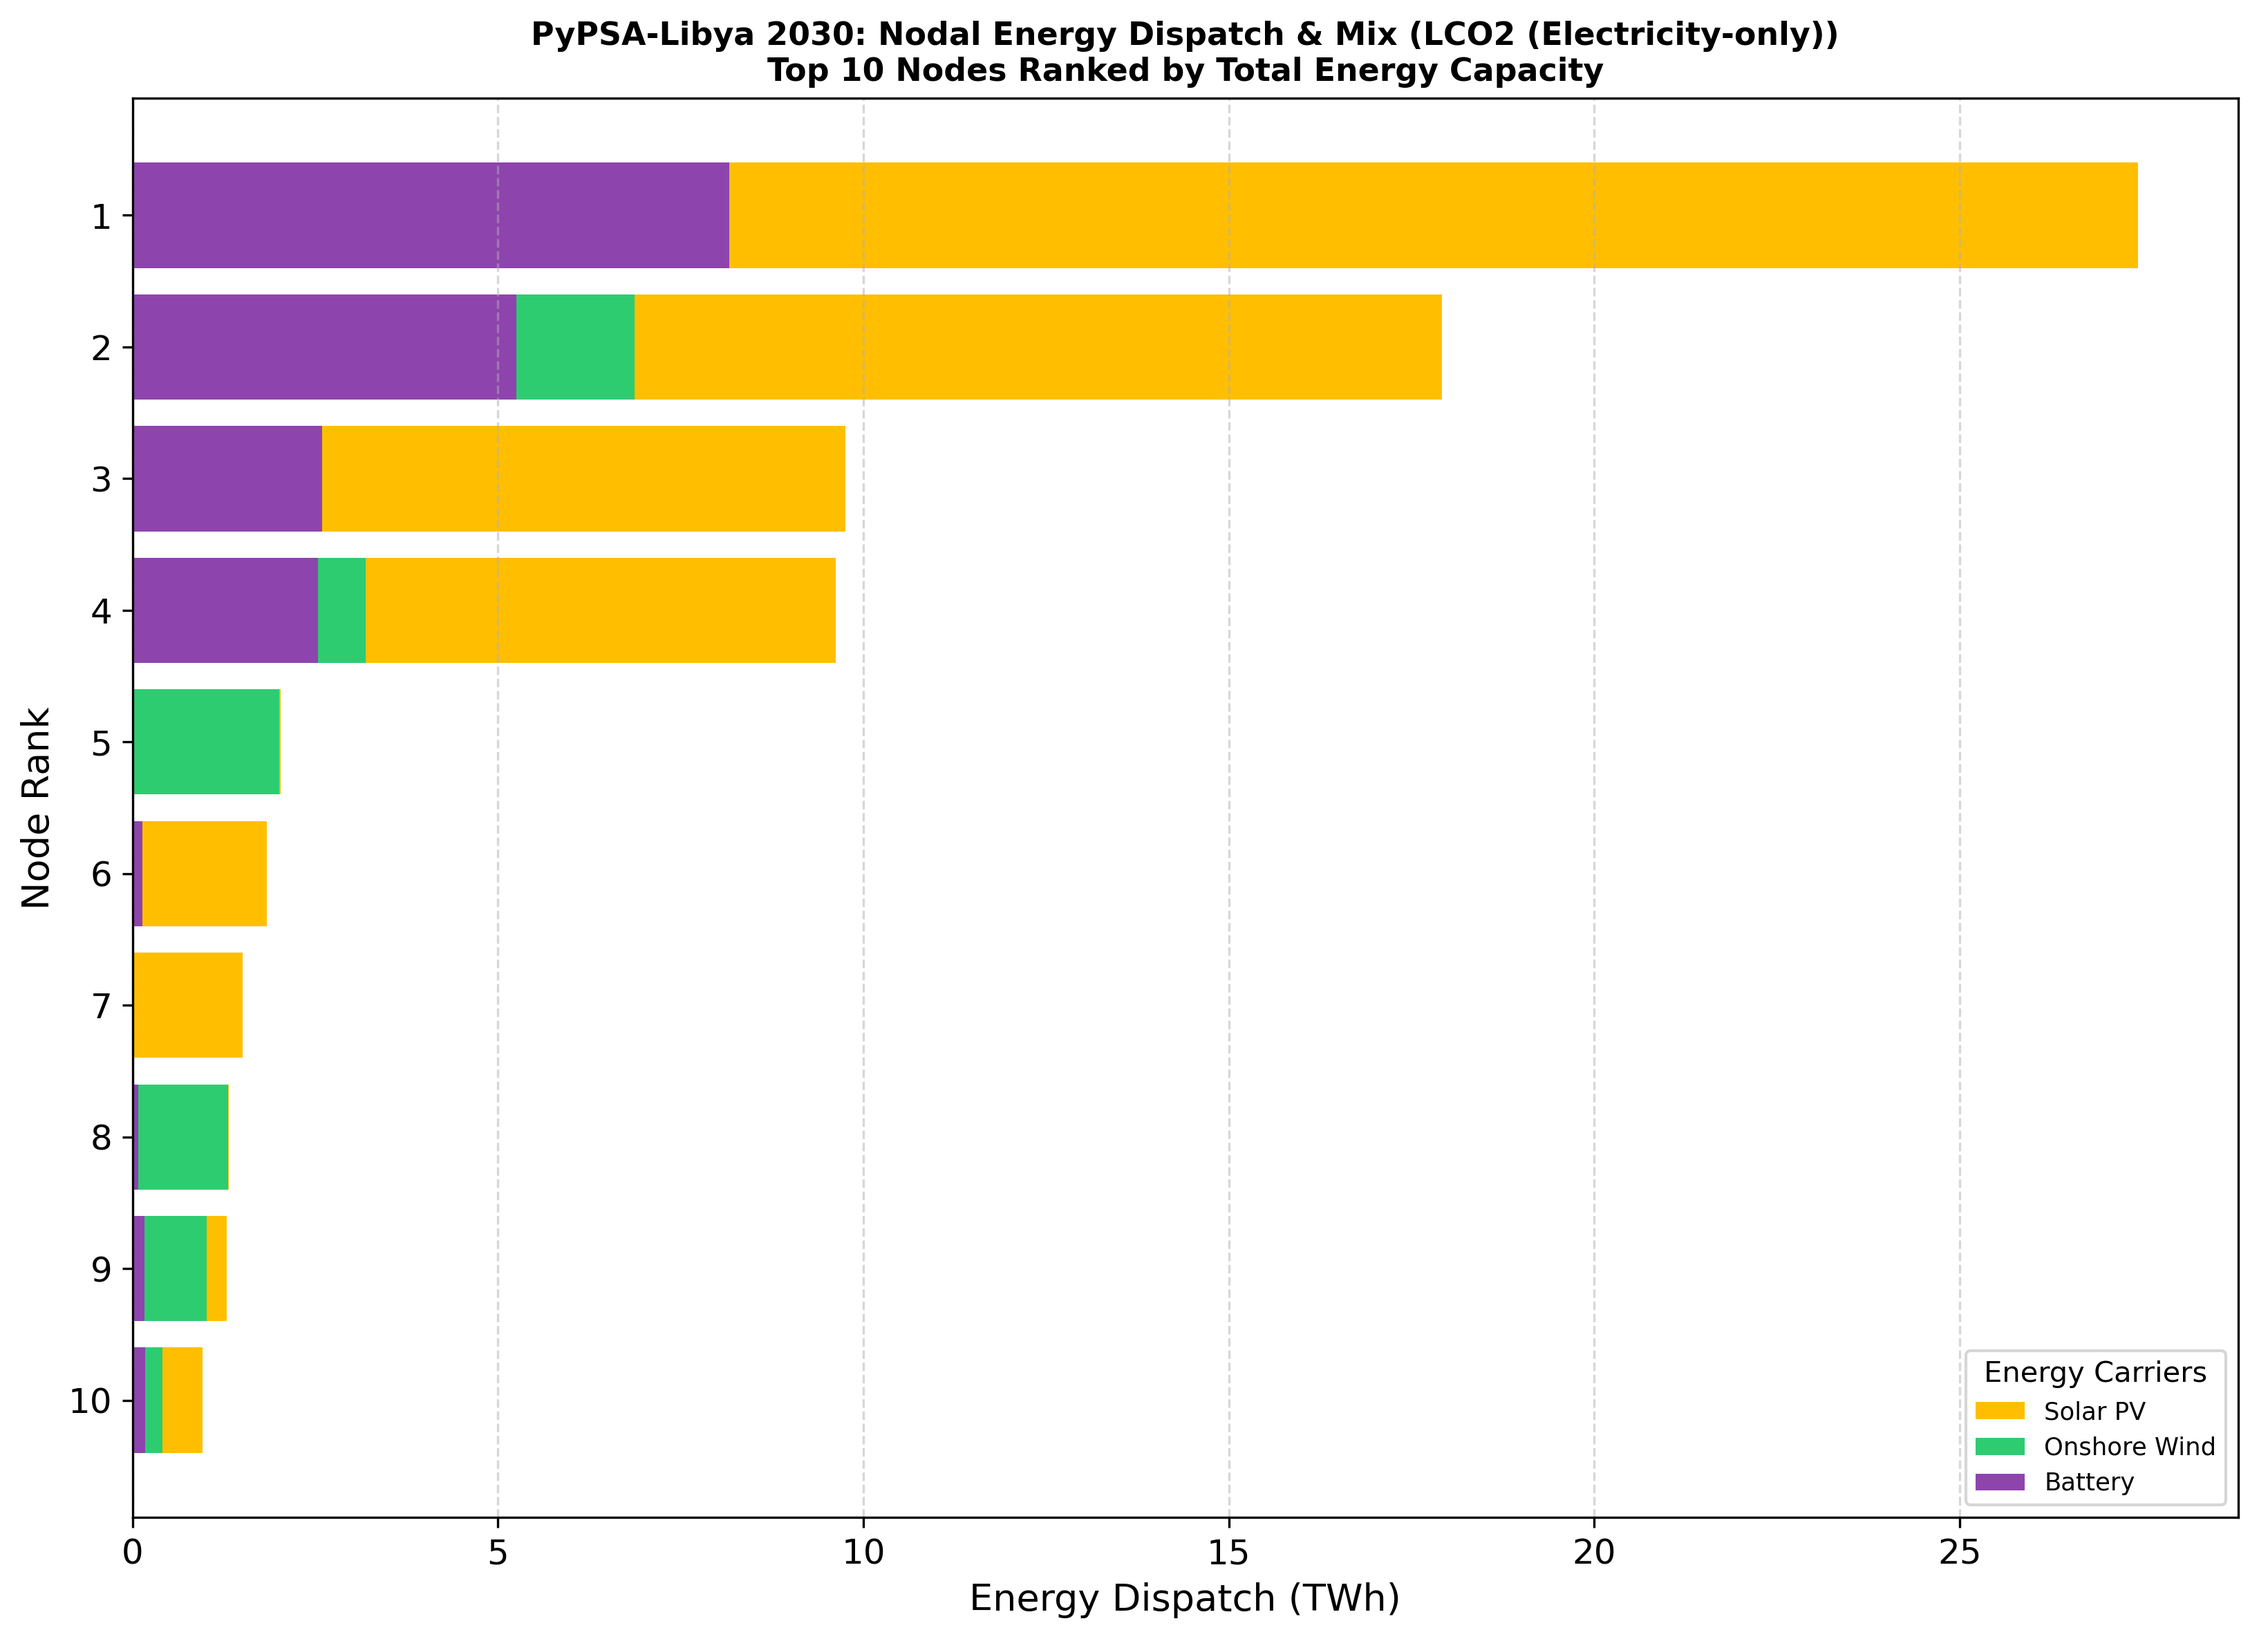
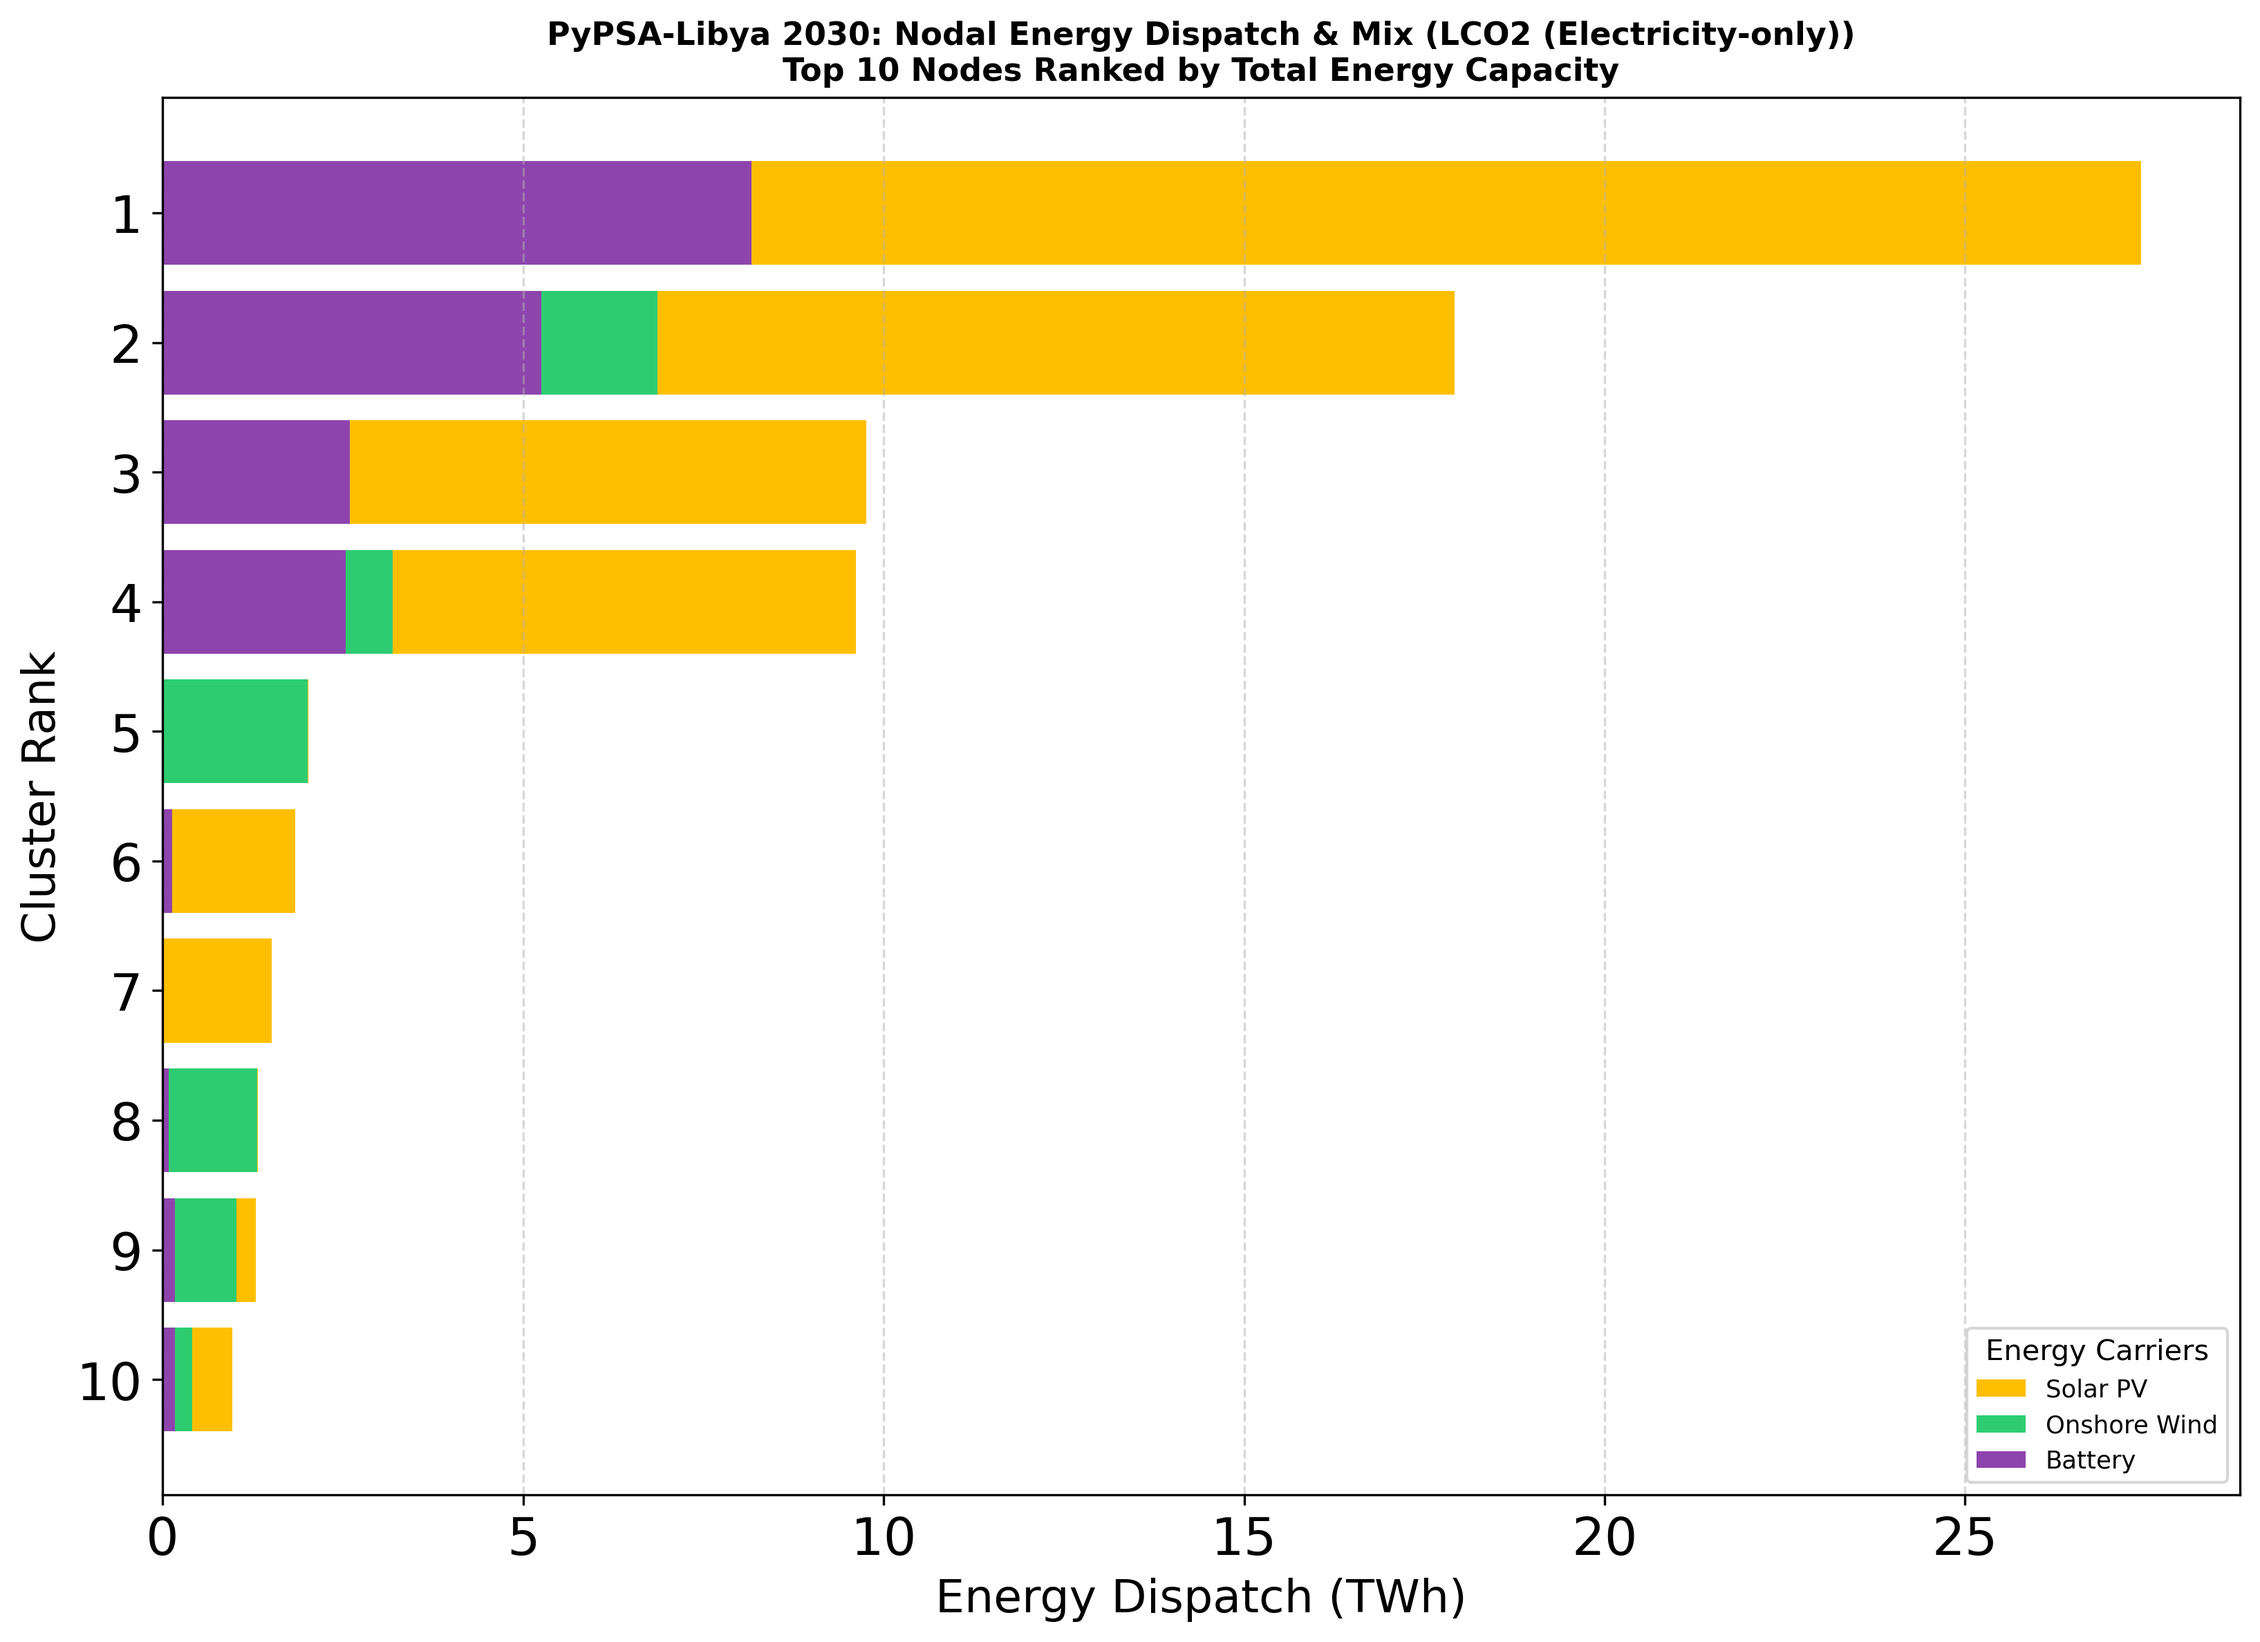
Add files via upload

diff --git a/viz_outputs/Validate_Energy_Conservation_All_Carriers/validate_all_carriers_energy_conservation.py b/viz_outputs/Validate_Energy_Conservation_All_Carriers/validate_all_carriers_energy_conservation.py
@@ -62,18 +62,34 @@ def save_paper_pdf(fig, ax, filename):
     ax.set_title(original_title)    # Restore title for the PNG/display version
     print(f" Saved Paper PDF (Optimized): {clean_name}")
 
-### --- ADJUSTABLE MAP & BAR CHART SETTINGS FOR READABILITY ---
-PIE_SCALE_FACTOR = 1.5                # Change this to 1.0 for original size, 1.5 to increase by 50%, etc.
+# ============================================================================
+# ADJUSTABLE CONFIGURATION: MAP & BAR CHART FORMATTING FOR READABILITY
+# ============================================================================
 
-MAP_NODE_LABEL_SIZE = 11              # Change this to adjust map node label font size (e.g., 9, 11, 13)
-MAP_NODE_LABEL_WEIGHT = "bold"        # Change this to "bold" or "normal"
+### --- 1. General Scaling & Filtering Thresholds ---
+PIE_SCALE_FACTOR = 1.5                # Scales pie chart sizes globally 
+                                      # (1.0 = baseline size, 1.5 = +50% larger, etc.)
 
-MAP_LABEL_OFFSET_X = -0.35            # Horizontal offset for map labels (electricity-only mode)
-MAP_LABEL_OFFSET_Y = -0.15             # Vertical offset for map labels (electricity-only mode)
-MAP_PIXEL_OFFSET_Y = 7                # Vertical pixel offset above nodes (sector-coupling mode)
+CARRIER_PERCENTAGE = 0.5              # Minimum global energy share (%) required for a 
+                                      # carrier to appear in map pie charts and the legend
 
-BAR_TICK_FONT_SIZE = 12               # Change this to adjust bar plot tick size (e.g., 10, 12, 14)
-BAR_LABEL_FONT_SIZE = 13              # Change this to adjust bar plot axis labels size
+### --- 2. Map Node Label Styling & Positioning ---
+MAP_NODE_LABEL_SIZE = 11              # Font size for rank numbers placed next to nodes (e.g., 9, 11, 13)
+MAP_NODE_LABEL_WEIGHT = "bold"        # Font weight for node labels ("bold" or "normal")
+
+# Label coordinate offsets (adjusts position relative to node coordinates)
+MAP_LABEL_OFFSET_X = -0.35            # Horizontal offset (used primarily in electricity-only mode)
+MAP_LABEL_OFFSET_Y = -0.15            # Vertical offset (used primarily in electricity-only mode)
+MAP_PIXEL_OFFSET_Y = 7                # Vertical pixel shift above nodes (used in sector-coupling mode)
+
+### --- 3. Axis & Tick Typography Controls ---
+# Map Figure Axis Settings
+MAP_AXIS_LABEL_FONT_SIZE = 14         # Font size for map axis titles (Longitude / Latitude)
+MAP_AXIS_TICK_FONT_SIZE = 10          # Font size for map tick values along the axes
+
+# Bar Chart Figure Axis Settings
+BAR_LABEL_FONT_SIZE = 16              # Font size for bar chart axis titles (Node Rank / Energy Dispatch)
+BAR_TICK_FONT_SIZE = 18               # Font size for bar chart tick marks and values
 
 
 SCENARIOS = [
@@ -764,7 +780,7 @@ if __name__ == "__main__":
         total_energy_all = nodal_mix.sum().sum() if not nodal_mix.empty else 0.0
         if not nodal_mix.empty and total_energy_all > 0:
             global_percentages = (nodal_mix.sum() / total_energy_all) * 100.0
-            valid_carriers = global_percentages[global_percentages >= 2.0].index
+            valid_carriers = global_percentages[global_percentages >= CARRIER_PERCENTAGE].index
             nodal_mix = nodal_mix[[c for c in nodal_mix.columns if c in valid_carriers]]
 
         rounded_percentages = {}
@@ -988,8 +1004,9 @@ if __name__ == "__main__":
             fontsize=11,
             fontweight="bold",
         )
-        ax.set_xlabel("Longitude")
-        ax.set_ylabel("Latitude")
+        ax.set_xlabel("Longitude", fontsize=MAP_AXIS_LABEL_FONT_SIZE)
+        ax.set_ylabel("Latitude", fontsize=MAP_AXIS_LABEL_FONT_SIZE)
+        ax.tick_params(axis='both', which='major', labelsize=MAP_AXIS_TICK_FONT_SIZE)
 
         # Ensure map output directory exists
         png_dir = os.path.dirname(png_out)
@@ -1043,7 +1060,7 @@ if __name__ == "__main__":
                 fontweight="bold"
             )
             ax_bar.set_xlabel("Energy Dispatch (TWh)", fontsize=BAR_LABEL_FONT_SIZE)
-            ax_bar.set_ylabel("Node Rank", fontsize=BAR_LABEL_FONT_SIZE)
+            ax_bar.set_ylabel("Cluster Rank", fontsize=BAR_LABEL_FONT_SIZE)
             
             # Increase and make tick label sizes adjustable
             ax_bar.tick_params(axis='both', which='major', labelsize=BAR_TICK_FONT_SIZE)
